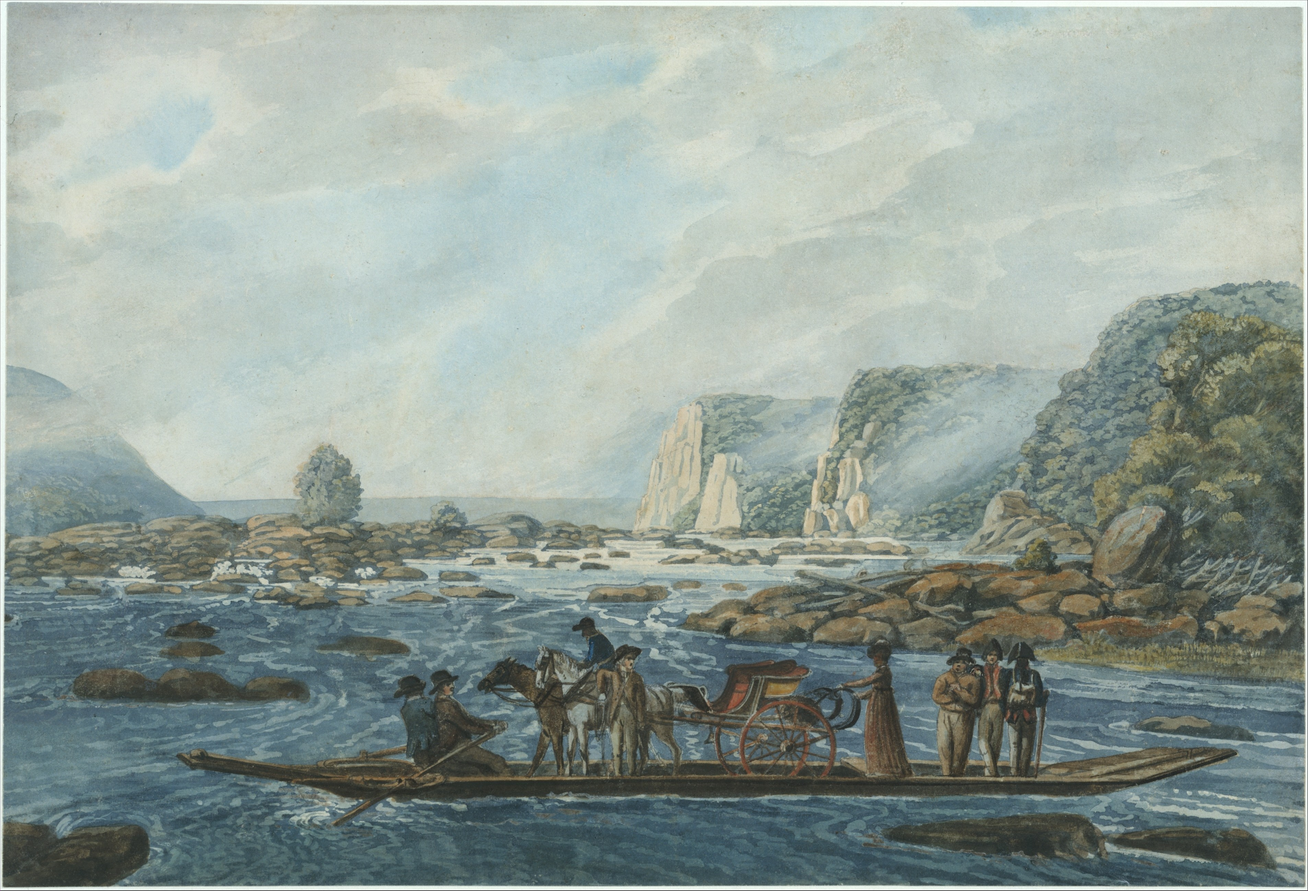
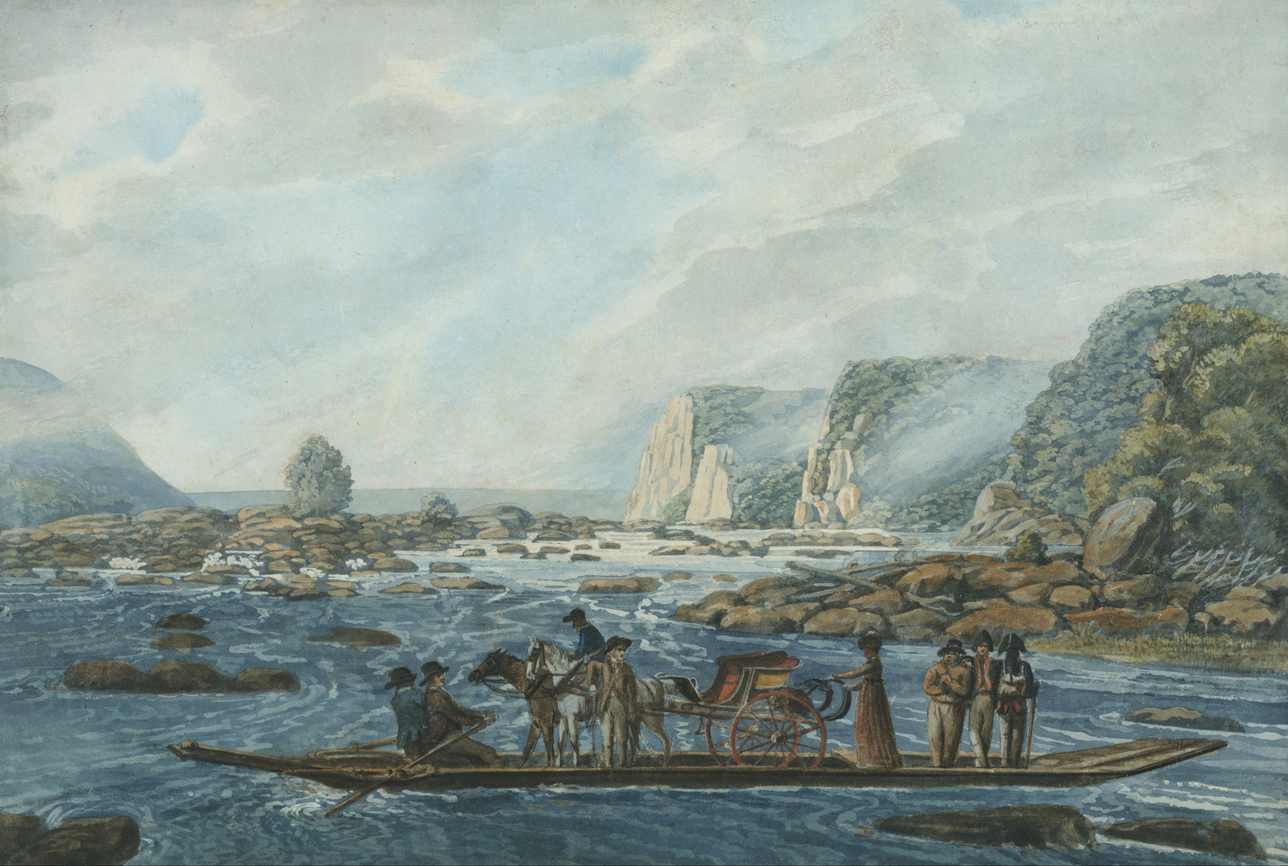
Theming
cropped the banner, added scss styles and html alterations for global, front page, and tag styling

Changed region(s): [[0.0, 0.0, 1.0, 1.0]]

diff --git a/src/styles/global.scss b/src/styles/global.scss
@@ -15,12 +15,24 @@ body {
 
 p {
     font-family: typography.$base-font-family;
+    font-size: larger;
 }
 
-h1, h2, h3, h4, h5, h6 {
+h1 {
+    font-family: typography.$base-font-family;
+    font-weight: bold; 
+}
+
+h2, h3, h4, h5, h6 {
     font-family: typography.$base-font-family;
     color: colors.$secondary-accent;
     font-weight: bold;
+}
+
+h2 {
+    text-transform: uppercase;
+    font-size: 1.3em;
+    margin: 1.5em 0;
 }
 
 a {
@@ -32,6 +44,25 @@ hr {
     height: 2px;
     background-color: colors.$breaker-color;
     margin: 20px 0;
+}
+
+.tag-info.badge {
+
+    margin: 5px;
+    border-radius:0;
+    background-color: colors.$primary-accent;
+    padding: 10px;
+
+    a {
+        color: white; 
+        text-decoration: none; 
+        font-size: large;
+        font-weight:normal;
+    }
+
+    :hover, :active {
+        text-decoration:underline;
+    }
 }
 
 /* Nav Styles */
@@ -52,6 +83,50 @@ hr {
 
 /* Page Styles */
 
+#banner-overlay {
+    background: rgba(255, 255, 255, .75);
+    margin-top:1em;
+    margin-left:1em;
+    padding:1em;
+    max-width: 380px;
+
+    p {
+        font-style: italic;
+        font-weight: 600;
+    }
+}
+
+#banner-caption {
+    background-color: black;
+    color: white;
+    padding: .5em 1.5em;
+    font-style: italic;
+    font-size: small;
+    margin-bottom: 2em;
+
+    p { font-family:Arial, Helvetica, sans-serif; }
+    a { color: white;}
+}
+
+.nav-tile {
+     height:150px;
+     background-color: colors.$primary-accent;
+     text-align: center;
+     padding: 1em;
+    color: white;
+    text-transform: uppercase;
+    font-weight:bold;
+    font-size:1.3em;
+    text-decoration:none;
+
+    :hover, :active {
+        text-decoration:underline;
+    }
+
+    p { width:100%; }
+
+}
+
 #person-profile, #registration {
     h1 {
         padding-left:2.5rem;
@@ -66,11 +141,7 @@ hr {
     line-height: 1;
     margin-bottom: 2rem;
 
-    h2 {
-        text-transform: uppercase;
-        font-size: large;
-        margin: 1.5em 0;
-    }
+
 
     h3 {
         font-size: 1.4rem;
